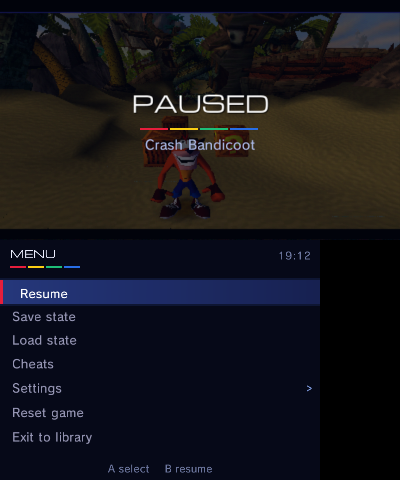
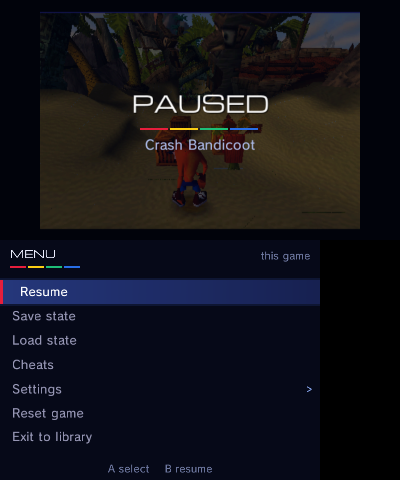
Refresh release screenshots and document the Crash picture border

diff --git a/docs/release-notes-v0.4.0.md b/docs/release-notes-v0.4.0.md
@@ -23,7 +23,8 @@ These are scene measurements, not whole-game guarantees. See
 The built-in HLE BIOS needs no separate BIOS file. A real BIOS remains optional
 and may help compatibility. Per-object 3D currently falls back to depth-mesh
 screen 3D. Old 3DS has no stereoscopic display or rewind. Heavy games still run
-below full speed on Old 3DS, including with automatic frameskip.
+below full speed on Old 3DS, including with automatic frameskip. A thin blue
+line can remain along the top edge of Crash Bandicoot’s game picture.
 
 Install with **FBI → Remote Install → Scan QR Code**, or download and install
 **PSX3D.cia**. Existing settings and saves are retained; obsolete renderer

diff --git a/README.md b/README.md
@@ -22,8 +22,8 @@ and Symphony of the Night to full game speed on the original 3DS.
   <img src="docs/screenshots/silent-hill.png" alt="Silent Hill gameplay" width="400">
 </p>
 <p align="center">
-  <img src="docs/screenshots/settings-old.png" alt="Old 3DS settings" width="300">
-  <img src="docs/screenshots/settings-new.png" alt="New 3DS settings" width="300">
+  <img src="docs/screenshots/settings.png" alt="Settings categories" width="300">
+  <img src="docs/screenshots/settings-display.png" alt="Opened Display settings category" width="300">
 </p>
 <p align="center">
   <img src="docs/screenshots/touch-layout.png" alt="Old 3DS bottom-screen touch controls" width="320">
